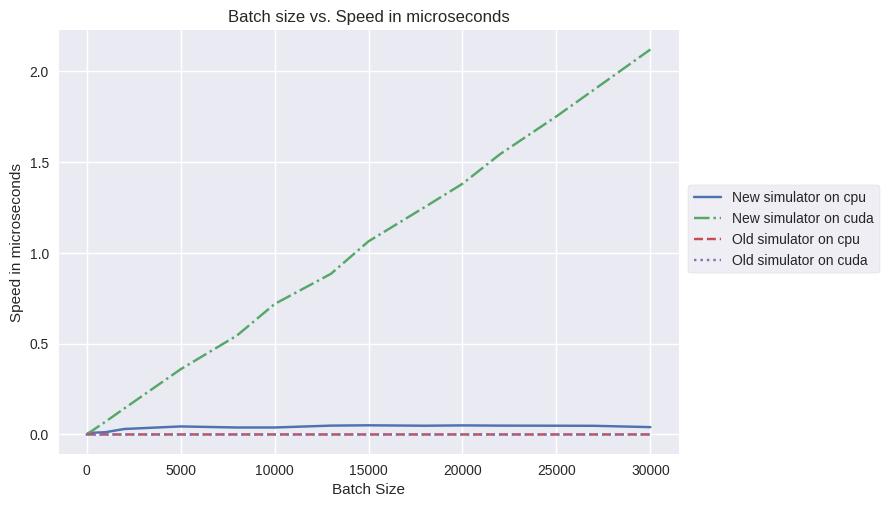
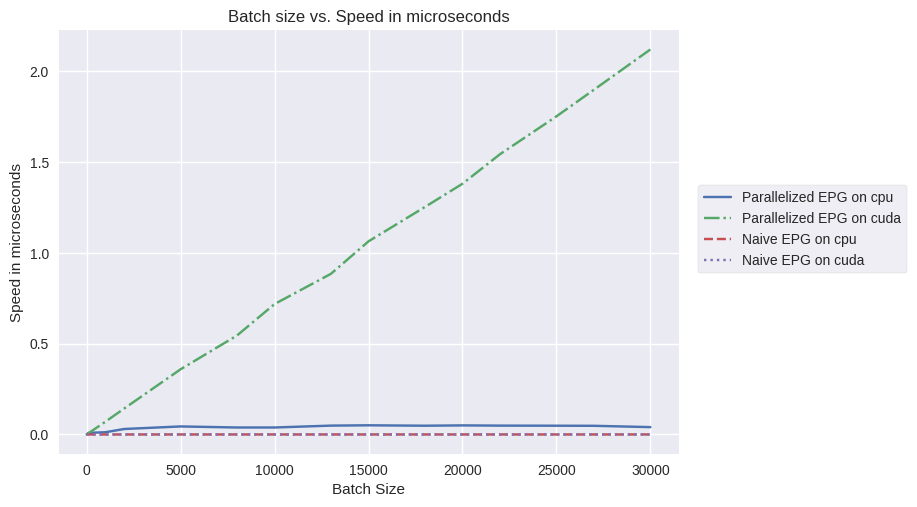
Change simulator name to EPG

diff --git a/plot.py b/plot.py
@@ -14,15 +14,16 @@ ax = plt.axes()
 # y = df[df['Simulator'].str.contains('New', na = False)]
 linestyles = ['solid', 'dashed', 'dashdot', 'dotted']
 i = 0
-for simulator in ["New", "Old"]:
+sims = {"Parallelized": "New", "Naive": "Old"}
+for simulator in ["Parallelized", "Naive"]:
     for device in ["cpu", "cuda"]:
-        y = df[df['Simulator'].str.match(simulator) & df['Device'].str.match(device)]
+        y = df[df['Simulator'].str.match(sims[simulator]) & df['Device'].str.match(device)]
         x = y.loc[:, 'Batch Size']
         y = y.loc[:, 'Time']
-        plt.plot(x, np.log10(y), label=f'{simulator} simulator on {device}')
+        plt.plot(x, np.log10(y), label=f'{simulator} EPG on {device}')
         i += 1
 
-plt.legend(loc=9, bbox_to_anchor=(1.17, 0.65), frameon=True)
+plt.legend(loc=9, bbox_to_anchor=(1.2, 0.65), frameon=True)
 plt.xlabel('Batch Size')
 plt.ylabel('$\log_{10}$ Time')
 plt.title('Batch size vs. $\log_{10}$ time')
@@ -34,14 +35,15 @@ fig = plt.figure()
 ax = plt.axes()
 linestyles = ['solid', 'dashdot', 'dashed', 'dotted']
 i = 0
-for simulator in ["New", "Old"]:
+sims = {"Parallelized": "New", "Naive": "Old"}
+for simulator in ["Parallelized", "Naive"]:
     for device in ["cpu", "cuda"]:
-        y = df[df['Simulator'].str.match(simulator) & df['Device'].str.match(device)]
+        y = df[df['Simulator'].str.match(sims[simulator]) & df['Device'].str.match(device)]
         x = y.loc[:, 'Batch Size']
         y = y.loc[:, 'Speed']
-        plt.plot(x, y, label=f'{simulator} simulator on {device}', linestyle=linestyles[i])
+        plt.plot(x, y, label=f'{simulator} EPG on {device}', linestyle=linestyles[i])
         i += 1
-plt.legend(loc=9, bbox_to_anchor=(1.17, 0.65), frameon=True)
+plt.legend(loc=9, bbox_to_anchor=(1.2, 0.65), frameon=True)
 plt.xlabel('Batch Size')
 plt.ylabel('Speed in microseconds')
 plt.title('Batch size vs. Speed in microseconds')
